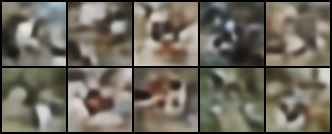
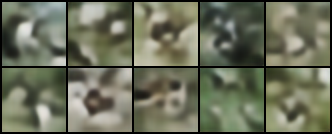
set d_model and n_head

diff --git a/flow_matching/flow_matching.py b/flow_matching/flow_matching.py
@@ -202,7 +202,7 @@ class FlowMatching(nn.Module):
 
         Args:
             xt (torch.Tensor): latent tokens [batch, n_token, latent_channels]
-            T (torch.Tensor): continuous time [batch] or [batch, 1]
+            T (torch.Tensor): continuous time [batch, 1]
             label_batch (torch.Tensor): one-hot class labels [batch, category_num]
 
         Returns:
@@ -222,37 +222,22 @@ class FlowMatching(nn.Module):
             logger.error(err)
             raise ValueError(err)
 
-        # T is continuous time, not a discrete class index.
-        if T.ndim != 1 and T.ndim != 2:
-            err: str = f"T be dim [batch] or [batch, 1], but got {T.shape}."
-            logger.error(err)
-            raise ValueError(err)
-
-        if T.ndim == 2 and T.shape[1] != 1:
-            err = f"T with rank 2 must have shape [batch, 1], but got {T.shape}."
-            logger.error(err)
-            raise ValueError(err)
-
-        time = T.reshape(-1)
-        if time.shape[0] != xt.shape[0]:
-            err = f"T batch size must be {xt.shape[0]}, " f"but got {time.shape[0]}."
-            logger.error(err)
-            raise ValueError(err)
-        if time.device != xt.device:
+        # T must be a floating-point time column on xt's device.
+        if (
+            T.ndim != 2
+            or T.shape != (xt.shape[0], 1)
+            or T.device != xt.device
+            or not T.is_floating_point()
+            or not torch.all((T >= 0.0) & (T <= 1.0))
+        ):
             err = (
-                f"xt and T must be on the same device, "
-                f"but got {xt.device} and {time.device}."
+                f"T must be floating with shape [{xt.shape[0]}, 1], "
+                f"values in [0, 1], and device {xt.device}; got shape "
+                f"{tuple(T.shape)}, dtype {T.dtype}, and device {T.device}."
             )
             logger.error(err)
             raise ValueError(err)
-        if not time.is_floating_point():
-            err = f"T must be floating point, but got {time.dtype}."
-            logger.error(err)
-            raise ValueError(err)
-        if time.min().item() < 0.0 or time.max().item() > 1.0:
-            err = f"T should be within [0, 1], but got {time}."
-            logger.error(err)
-            raise ValueError(err)
+        time = T[:, 0]
 
         if label_batch.ndim != 2 or label_batch.shape != (
             xt.shape[0],
@@ -334,7 +319,7 @@ if __name__ == "__main__":
     # get x_t
     for i in range(model_cfg.total_steps):
         time = torch.full(
-            (x1.shape[0],),
+            (x1.shape[0], 1),
             i / model_cfg.total_steps,
             device=device,
         )

diff --git a/flow_matching/train_flow_matching.py b/flow_matching/train_flow_matching.py
@@ -147,7 +147,7 @@ class TrainFlowMatching(nn.Module):
 
                 # Sample continuous flow time and build the interpolation.
                 x0 = torch.randn_like(x1, device=x1.device)
-                T = torch.rand(B, device=x1.device)
+                T = torch.rand((B, 1), device=x1.device)
                 xt, target_velocity = self.flow_net.get_xt_and_xt_dot(
                     x0=x0,
                     x1=x1,
@@ -222,7 +222,7 @@ class TrainFlowMatching(nn.Module):
         # Integrate the learned velocity field from t=0 to t=1.
         for step in range(self.model_cfg.total_steps):
             T = torch.full(
-                size=[batch_size],
+                size=[batch_size, 1],
                 fill_value=step * one_step,
                 device=self.train_cfg.device,
             )

diff --git a/flow_matching/analyze_latent_distribution.py b/flow_matching/analyze_latent_distribution.py
@@ -270,7 +270,7 @@ class LatentDistributionAnalyzer:
                     # 模型训练时的时间范围是 [0, 1)，所以最后一次使用
                     # t=(steps-1)/steps，并把状态推进到近似 t=1。
                     time = torch.full(
-                        (current,),
+                        (current, 1),
                         step / self.sampling_steps,
                         device=self.device,
                     )

diff --git a/flow_matching/config.py b/flow_matching/config.py
@@ -72,10 +72,10 @@ class DataConfig:
 
 @dataclass
 class FlowMatchingModelConfig:
-    d_model: int = 256
+    d_model: int = 4
     latent_channels: int = 4  # VAE token feature dimension
-    n_layer: int = 8
-    n_head: int = 16
+    n_layer: int = 6
+    n_head: int = 1
     total_steps: int = 100
     sampling_seed: int = 42
     category_num: int = DataConfig.category_num
